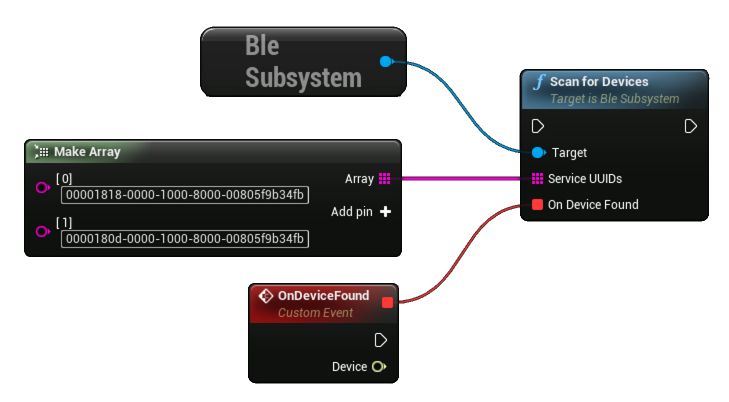
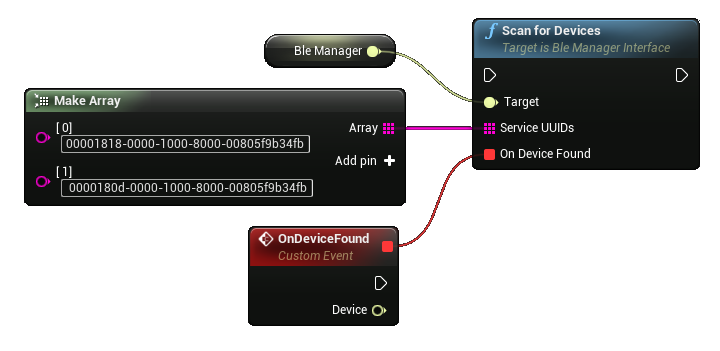
change subsystem to manager in docs

diff --git a/docs/ue-plugins/ble-goodies.md b/docs/ue-plugins/ble-goodies.md
@@ -20,11 +20,15 @@ These permissions are added to the manifest by default but `ACCESS_FINE_LOCATION
 
 ![](images/ble-goodies/ble_android_permission.png)
 
+?> If your app targets API level 28 or lower you can request either `ACCESS_COARSE_LOCATION` or `ACCESS_FINE_LOCATION` permissions. If the API target is 29 and above only `ACCESS_FINE_LOCATION` permission will work.
+
 iOS does not require any action from you - the plugin handles plist modification so that the app has access to Bluetooth.
 
-# BLE Subsystem
+# BLE Manager
 
-The centerpiece of the plugin is the BLE Subsystem. It is created automatically and you can access it from anywhere in your blueprints. This subsystem can check and control Bluetooth state and perform scans to find nearby BLE devices.
+The BLE Manager can check and control Bluetooth state and perform scans to find nearby BLE devices. You can create a BLE Manager using the `Create Ble Manager` node and storing the output in a variable.
+
+![](images/ble-goodies/ble_create_manager.png)
 
 ?> The service and characteristic UUIDs need be in the 128 bit fully qualified format e. g. XXXXXXXX-XXXX-XXXX-XXXX-XXXXXXXXXXXX. Any other format will not work. For converting and checking the validity of UUIDs check the [BLE Utils](#ble-utils) section.
 
@@ -35,7 +39,7 @@ The centerpiece of the plugin is the BLE Subsystem. It is created automatically 
 - `Is BLE Supported` - Check if the device supports Bluetooth low energy mode.
 - `Is Bluetooth Enabled` - Check if Bluetooth is enabled on the device.
 - `Set Bluetooth State` - Enable/disable Bluetooth on the device (Android only).
-- `Is Scanning` - Check if the subsystem is currently performing a scan.
+- `Is Scanning` - Check if the manager is currently performing a scan.
 
 ## Scan for devices
 
@@ -55,7 +59,7 @@ If you do not need to connect to a BLE Device but require the device's manufactu
 
 # BLE Device
 
-You discover BLE devices by running a device scan from the BLE Subsystem and listening for the `On Device Found` callback.
+You discover BLE devices by running a device scan from a BLE Manager and listening for the `On Device Found` callback.
 
 By storing a reference to a device you can access its functionality:
 
